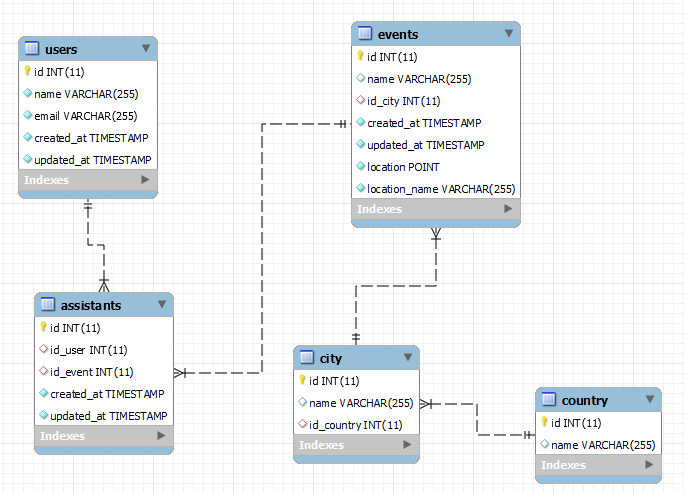
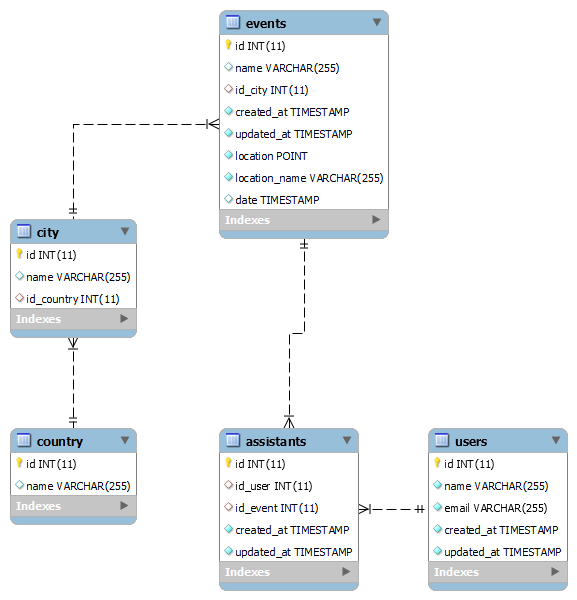
update relational database model pic and bkp api_db.sql

diff --git a/README.md b/README.md
@@ -334,9 +334,9 @@ Ubicación: rest\resources\bd\api_db.sql
 
 // TODO 
 
-Manejo de Librerías y Procesamiento de Archivos Excel: (falta todo)
-Manejo de Ubicaciones Cercanas con Mapbox : (falta todo)
-Utilización e implementación de Docker: (falta las 5 replicas mediante kubernetes)
-Conocimientos sobre Servidores, Infraestructura y DevOps: (Falta habilitar Github action)
+- Manejo de Librerías y Procesamiento de Archivos Excel: (falta todo)
+- Manejo de Ubicaciones Cercanas con Mapbox : (falta todo)
+- Utilización e implementación de Docker: (falta las 5 replicas mediante kubernetes)
+- Conocimientos sobre Servidores, Infraestructura y DevOps: (Falta habilitar Github action)
 
 
